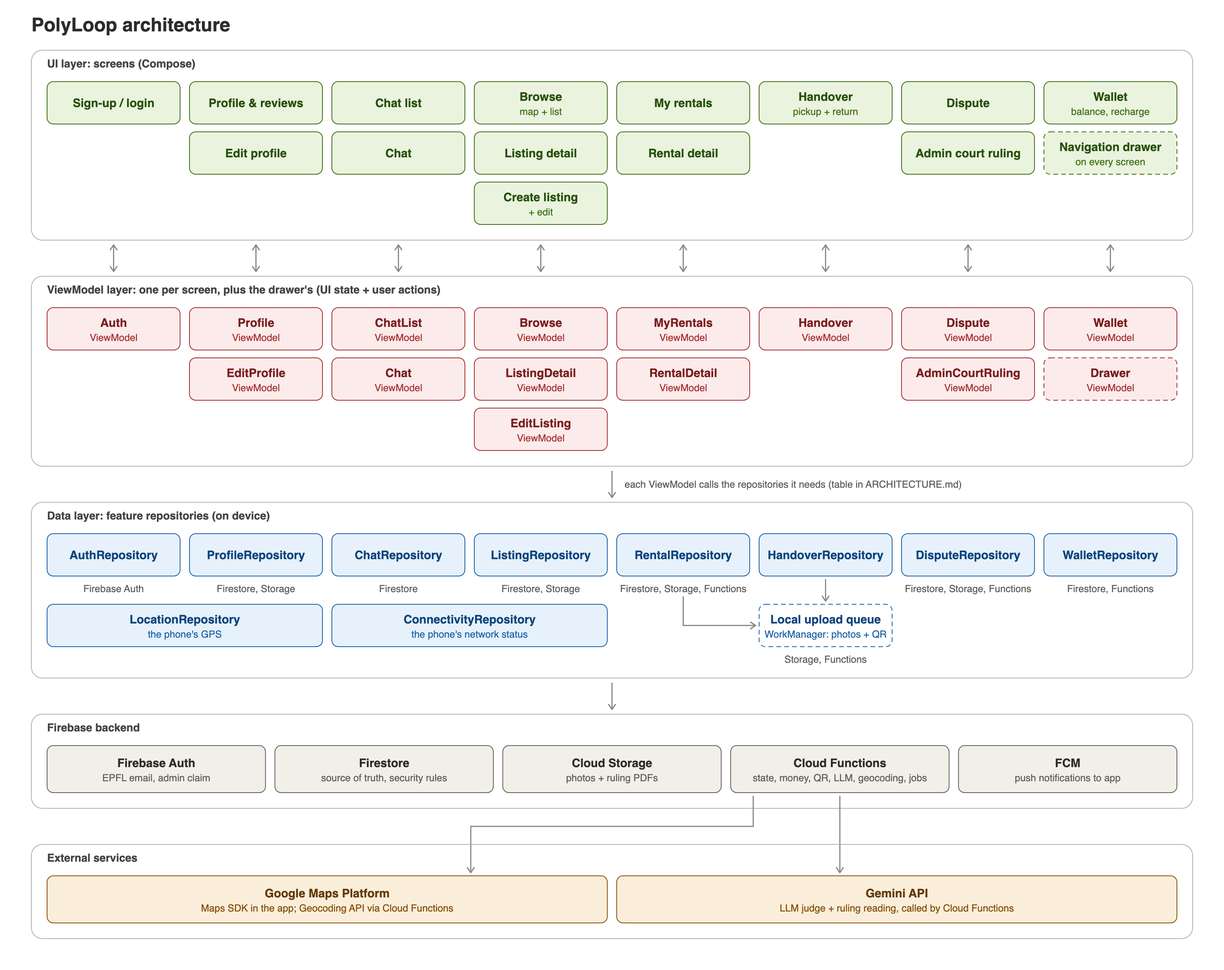
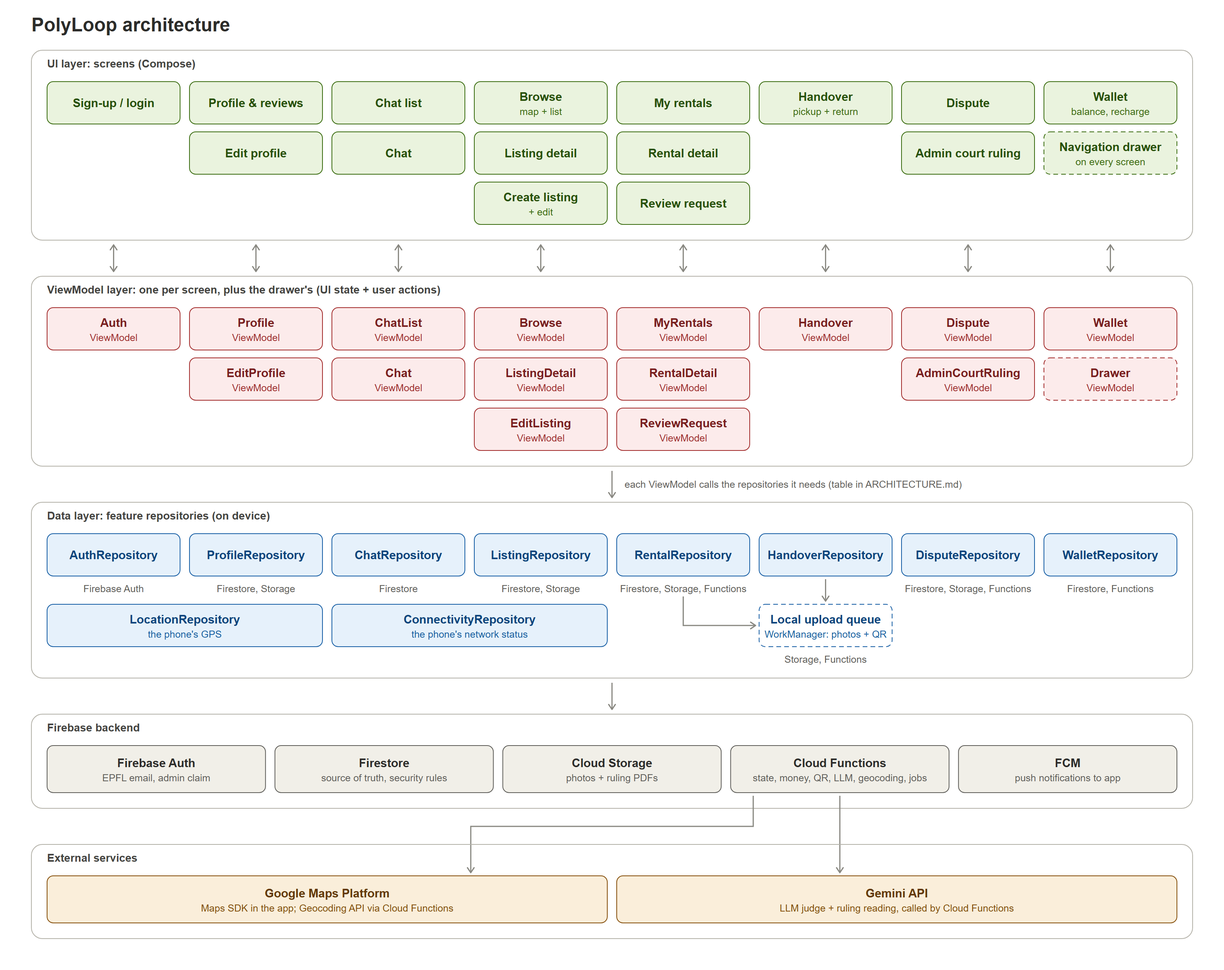
docs: describe the deposit negotiation flow
The lender now offers a deposit, the borrower accepts, declines or counters once, and an offer expires after a week. Adds the Review request screen and the offer fields to the docs and the diagram.

diff --git a/docs/ARCHITECTURE.md b/docs/ARCHITECTURE.md
@@ -4,9 +4,9 @@
 ## Layers
 
 ```
-UI layer        Compose screens (14 screens, see SCREENS.md)
+UI layer        Compose screens (15 screens, see SCREENS.md)
                   │  observe state / send user actions
-ViewModel layer 14 screen ViewModels (one per screen) + DrawerViewModel (navigation drawer)
+ViewModel layer 15 screen ViewModels (one per screen) + DrawerViewModel (navigation drawer)
                   │  call the repositories they need (no domain layer)
 Data layer      10 repositories + local upload queue (WorkManager)
                   │
@@ -45,11 +45,12 @@ Each screen has its own ViewModel, which holds that screen's state and calls the
 | Edit profile | EditProfileViewModel | Profile (loads the profile, uploads the new photo, saves the name and the photo's URL) |
 | Wallet | WalletViewModel | Wallet |
 | Chat list | ChatListViewModel | Chat (the item and the other person are copied on each rental, see "Firestore schema") |
-| Chat | ChatViewModel | Chat; Rental (link to Rental detail, sending disabled during a dispute); Profile (the other person); Listing (the item) |
+| Chat | ChatViewModel | Chat; Rental (link to Rental detail, sending disabled during a dispute, the offer card and its answers); Profile (the other person); Listing (the item) |
 | Browse | BrowseViewModel | Listing; Location (distance and map position) |
 | Listing detail | ListingDetailViewModel | Listing (the item and its booked days); Rental (sending the request); Profile (the owner's name and rating); Auth (the borrower sending the request) |
 | Create / edit listing | CreateListingViewModel | Listing; Rental (editing locked while a rental is accepted or active); Auth (the owner publishing the listing) |
 | My rentals | MyRentalsViewModel | Rental (the item, the other person and the areas are copied on each rental, see "Firestore schema") |
+| Review request | ReviewRequestViewModel | Rental (the request, sending the offer, declining); Listing (the item value, shown as the suggested deposit); Profile (the borrower's rating) |
 | Rental detail | RentalDetailViewModel | Rental (status, actions, deposit, meeting point, mid-rental photos); Listing (the item); Profile (the other person, the review prompt) |
 | Handover | HandoverViewModel | Handover; Rental (phase, role, deposit held); Dispute ("Flag damage") |
 | Dispute | DisputeViewModel | Dispute; Handover (pickup and return photos); Rental (the deposit); Listing (the item) |
@@ -65,6 +66,7 @@ DrawerViewModel is the one ViewModel not tied to a screen: the navigation drawer
 The app writes only content it owns (listings, profile fields, chat messages, photos). Anything that moves money or changes who holds an item is done by Cloud Functions, called from repositories:
 
 - rental status changes (request, accept, decline, cancel, pickup, return, close)
+- deposit offers and counteroffers
 - reserving and releasing the rental price and the deposit
 - wallet balance changes (recharge, payments, late fees, refunds)
 - dispute outcomes and applying court rulings
@@ -86,7 +88,13 @@ Requested → Accepted → Active → Returned → Closed, plus Declined, Cancel
 **Money (PolyPoints)**
 - In-app currency: PolyPoints (PP), 1 CHF = 1 PP. Recharge on the Wallet screen with a whole CHF amount from 1 to 99,999 (the same cap as a listing price); a recharge that would overflow the balance is refused. Payments are simulated. No withdrawals.
 - Sending a request reserves the rental price (price per day × days) from the borrower's balance; the request fails if the balance is too low. The wallet shows that price as `heldForRentals` and the deposits as `heldAsDeposits`; `reserved` is their sum, computed and never stored, and `available` + `reserved` is the user's total. A missing field reads as 0.
-- The deposit is negotiated in chat before acceptance. The lender enters the agreed deposit when accepting; it is reserved then, and acceptance fails if the balance is too low. The item value is shown as the suggested deposit.
+- The deposit is negotiated before acceptance, and only the deposit: the rental price is fixed. The item value is shown as the suggested deposit. An offer or a counteroffer is a whole amount from 1 to 99,999 PP (the same cap as a listing price).
+    1. On a request without an offer, the lender either sends an offer (the deposit and both exact addresses) or declines.
+    2. On the lender's offer, the borrower accepts, declines or sends one counteroffer.
+    3. On a counteroffer, the lender accepts or declines. There is no further round.
+- The rental stays `REQUESTED` during the negotiation. Accepting makes it `ACCEPTED`; the deposit is reserved then, and acceptance fails if the balance is too low. Declining an offer or a counteroffer makes it `DECLINED`.
+- An offer or a counteroffer expires after 1 week without an answer, or on the rental's first day if that comes sooner, and the rental becomes `DECLINED`. It cannot be accepted after that. A request without an offer does not expire.
+- Until the wallet has a Firestore implementation, no amount is actually reserved and the balance is not checked.
 
 **Listings and booking**
 - Price per day. The lender sets an availability window; the borrower picks dates inside it with a date picker.
@@ -123,7 +131,7 @@ Cloud Functions live in `functions/`, a separate TypeScript project (Node 22, `f
 
 | Area | Choice |
 | --- | --- |
-| Architecture | MVVM without a domain layer: 14 screen ViewModels, each calling the repositories it needs |
+| Architecture | MVVM without a domain layer: 15 screen ViewModels, each calling the repositories it needs |
 | UI state | Each ViewModel exposes its screen state as a `StateFlow`, collected with `collectAsStateWithLifecycle()`; user actions are method calls (unidirectional data flow) |
 | Navigation | Single activity, Navigation 2 (`navigation-compose`). Navigation 3 is Google's newer option, not adopted for now |
 | Dependency injection | Manual constructor injection: repositories and ViewModels receive their dependencies in the constructor (ViewModels through a `ViewModelProvider.Factory`), so tests can pass fakes. `RepositoryProvider` creates the shared repository instances |
@@ -135,7 +143,7 @@ Cloud Functions live in `functions/`, a separate TypeScript project (Node 22, `f
 | Geocoding | Cloud Function `geocodeListingAddresses`, when a listing's exact addresses are written (Geocoding API, key `GEOCODING_API_KEY`) |
 | "Near me" | Geohash queries with the GeoFire utilities |
 | LLM | Gemini API, called only from Cloud Functions (dispute proposals, court-ruling reading) |
-| Scheduled jobs | Every 5 minutes: deleting accounts not verified in time (`deleteExpiredSignUpsEvery5Minutes`). Hourly Cloud Function: 30-day escalation, deadline reminders, late fees, lost items, auto-cancelling rentals blocked by a late return |
+| Scheduled jobs | Every 5 minutes: deleting accounts not verified in time (`deleteExpiredSignUpsEvery5Minutes`). Hourly: expiring deposit offers (`expireOffers`). Hourly Cloud Function: 30-day escalation, deadline reminders, late fees, lost items, auto-cancelling rentals blocked by a late return |
 | Notifications | FCM |
 | Admins | Firebase custom claim |
 
@@ -148,7 +156,8 @@ Dates without a time are stored as `YYYY-MM-DD` strings, prices as whole PolyPoi
 | `users/{uid}` | `name`, `email`, `photoUrl`, `averageRating`, `reviewCount` | Missing fields read as `""` or 0. `photoUrl` is the download URL of the profile photo in Storage, or `""` without one. |
 | `listings/{listingId}` | `ownerId`, `title`, `description`, `category`, `photoUrls`, `pricePerDay`, `itemValue`, `availableFrom`, `availableTo`, `status`, `pickupArea`, `dropOffArea`, `pickupPoint`, `dropOffPoint`, `bookedRanges` | Public. `bookedRanges` is a list of `{start, end}` (`YYYY-MM-DD`, both days booked, the buffer days around it not included); missing reads as an empty list. It holds accepted rentals only: a pending request blocks no day. Each range copies the `startDate` and `endDate` of an accepted rental, which stay in `rentals/{rentalId}` to tell who has the item and when; the copy on the listing is public so that anyone can see which days are free without reading other people's rentals. Only Cloud Functions write it; the app never does, so it stays empty until the Function that accepts rentals exists. The areas and points: see below. |
 | `listings/{listingId}/private/addresses` | `pickup`, `dropOff` | Exact addresses, readable only by the owner. |
-| `rentals/{rentalId}` | `listingId`, `listingTitle`, `listingPhotoUrl`, `ownerId`, `ownerName`, `borrowerId`, `borrowerName`, `participants`, `startDate`, `endDate`, `status`, `pricePerDay`, `totalPrice`, `pickupArea`, `dropOffArea`, `pickupAddress`, `returnAddress`, `createdAt`, `lastMessage`, `lastMessageAt` | See below. |
+| `rentals/{rentalId}` | `listingId`, `listingTitle`, `listingPhotoUrl`, `ownerId`, `ownerName`, `borrowerId`, `borrowerName`, `participants`, `startDate`, `endDate`, `status`, `pricePerDay`, `totalPrice`, `pickupArea`, `dropOffArea`, `pickupAddress`, `returnAddress`, `deposit`, `offer`, `createdAt`, `lastMessage`, `lastMessageAt` | See below. |
+| `rentals/{rentalId}/private/addresses` | `pickup`, `dropOff` | The exact addresses of an offer, no client access. |
 | `rentals/{rentalId}/messages/{messageId}` | `senderId`, `text`, `sentAt`, `type` (`USER` or `SYSTEM`) | One conversation per rental. |
 
 Listings:
@@ -160,7 +169,10 @@ Rentals:
 - `participants` is `[ownerId, borrowerId]`; the chat list queries it with `array-contains` only and sorts by `lastMessageAt` in the app, so it needs no composite index.
 - My rentals queries `borrowerId` or `ownerId` only and sorts newest first in the app (a user has few rentals), so it needs no index.
 - `lastMessageAt` is set to the same server timestamp as `createdAt` when the rental is created: the chat list sorts by it, and leaves out a rental that lacks it.
-- `pickupAddress` and `returnAddress` stay empty until the lender accepts; the borrower cannot read the listing's exact addresses before that.
+- `pickupAddress` and `returnAddress` stay empty until the rental is accepted; the borrower cannot read the exact addresses before that. The lender's offer stores them in `private/addresses`, and acceptance copies them onto the rental.
+- `deposit` is the accepted amount in PolyPoints; missing reads as 0.
+- `offer` is the offer waiting for an answer: `amount`, `authorId`, `isCounter`, `createdAt`, `expiresAt`. It is missing when no offer is waiting, and removed when the negotiation ends. `expireOffers` queries `offer.expiresAt` alone, so it needs no composite index, and answering also refuses an expired offer, in case `expireOffers` has not run yet.
+- Each step of the negotiation adds a `SYSTEM` message to the chat, written by the Cloud Functions; the chat's offer card reads `offer`, so there is no new message type.
 - **Temporary exception to the core rule:** until the `requestRental` Cloud Function exists, the app creates the rental itself, with status `REQUESTED` only and no money reserved. The security rules allow only that creation, and afterwards only `lastMessage` and `lastMessageAt` can be changed by the participants. Until then, the dates are checked against `bookedRanges` only in the app (Listing detail reads them again from the server just before sending), so a client that skips this check is not stopped.
 
 Listing photos uploaded by the app go to Cloud Storage under `listings/{listingId}/`, as `0.jpg` to `9.jpg`, each tagged with the uid of the user who uploaded it (custom metadata `uploader`), so the Storage rules can check the owner and the uploader. Photos added before this rule live in `listing_images/` and keep working through their download URLs. A profile photo goes to `users/{uid}/profile.jpg`, one file per user that each new photo replaces; replacing it gives a new download URL, so the new photo is not hidden by an image cache.
@@ -170,6 +182,7 @@ Listing photos uploaded by the app go to Cloud Storage under `listings/{listingI
 `firestore.rules` and `storage.rules` are listed in `firebase.json`, so the emulators enforce them; `FirestoreRulesTest` and `StorageRulesTest` (in `androidTest/.../rules/`) check them. Every read and write needs a verified `@epfl.ch` account. Beyond the notes in the schema above:
 - A listing must pass the same checks as `Listing.canPublish` (3 to 10 photo URLs, all strings, prices from 1 to 99,999 PP, `availableFrom` before `availableTo`, a known category and status). Clients never write `bookedRanges` (a Cloud Function will, on acceptance) and never change `ownerId`. They create `pickupArea` and `dropOffArea` empty, never write `pickupPoint` or `dropOffPoint`, and never change any of the four afterwards (`geocodeListingAddresses` does). A listing cannot be created at an id whose `private/addresses` is left over from a deleted listing.
 - A rental request must match its listing, which must be `PUBLISHED`: same owner, title, first photo (`""` if the listing has none), price per day and areas, dates inside the availability window, and `totalPrice` equal to the price per day × the number of days.
+- Clients never write a rental's `deposit`, `offer`, `pickupAddress` or `returnAddress`, and have no access to `rentals/{rentalId}/private/addresses`.
 - Profiles: a user creates and edits only their own, with their own email; `averageRating` and `reviewCount` are left to Cloud Functions.
 - Storage: listing photos must be images under 10 MB (the in-app camera takes about 1440 × 1080 JPEGs at quality 80), named `0.jpg` to `9.jpg` and tagged with the uid of the user writing them. They are uploaded before the listing document exists, so a folder whose listing does not exist yet is open to any verified user; once it exists, only the owner may change it. A photo can be replaced or deleted only by the user who uploaded it, even once its listing is deleted; photos uploaded before the tag existed have none, so only an admin can change or delete them. These rules read Firestore, so the first deploy asks to let Storage read Firestore.
 - Storage: a profile photo can be read by any verified user and changed or deleted only by its user; it must be an image under 5 MB, and no other file is allowed under `users/`. The in-app camera takes photos at 1440 × 1080 with JPEG quality 80, a few hundred KB, well under this limit.
@@ -178,6 +191,6 @@ Listing photos uploaded by the app go to Cloud Storage under `listings/{listingI
 ## Not decided yet — ask before implementing
 
 - Security rules for collections not listed in the schema above
-- Cloud Function names and signatures, apart from `geocodeListingAddresses` (see "Firestore schema")
+- Cloud Function names and signatures, apart from `geocodeListingAddresses` (see "Firestore schema") and the negotiation's: `makeOffer({rentalId, deposit, pickupAddress, returnAddress})`, `respondToOffer({rentalId, action, deposit})` (`action` is `ACCEPT`, `DECLINE` or `COUNTER`; `deposit` only for `COUNTER`), `declineRequest({rentalId})`, and the scheduled `expireOffers`
 - Whether the auto-cancel waits until a set time on the pickup day (e.g. noon) so offline return scans can sync first
 - The exact list of push notifications

diff --git a/docs/SCREENS.md b/docs/SCREENS.md
@@ -5,7 +5,7 @@ One section per screen: what it shows and what it lets the user do. Mock-ups: ht
 
 ## Conventions
 
-PolyLoop has 14 screens, each backed by its own ViewModel, which uses the repositories it needs (see the table in ARCHITECTURE.md). Each section below lists what a screen shows and what it lets the user do.
+PolyLoop has 15 screens, each backed by its own ViewModel, which uses the repositories it needs (see the table in ARCHITECTURE.md). Each section below lists what a screen shows and what it lets the user do.
 
 Elements shared across screens:
 
@@ -55,7 +55,7 @@ Edit profile is where the signed-in user changes their name and photo. It opens 
 
 The Wallet screen holds the user's in-app balance, which pays for rentals and deposits. ViewModel: WalletViewModel, using WalletRepository. The balance is only ever changed by Cloud Functions; the app sends a request and shows the result.
 
-- The available balance in PolyPoints (everything held excluded), then “Held as deposits”, the deposits held, and, only when it is above 0, “Held for rentals”, the rental prices reserved since a request was sent (the deposit only exists once the lender accepts). Available plus both held amounts is the user's total.
+- The available balance in PolyPoints (everything held excluded), then “Held as deposits”, the deposits held, and, only when it is above 0, “Held for rentals”, the rental prices reserved since a request was sent (the deposit only exists once an offer is accepted). Available plus both held amounts is the user's total.
 - A “Recharge” button: the user enters a whole Swiss franc amount from 1 to 99,999 and receives the same number of PolyPoints. Recharging is simulated; no real payment is made.
 - A transaction history, newest first: recharges, rental payments, late fees, and deposits held, released, split or forfeited (the rest of the deposit, paid to the lender once the item is lost). The amounts add up to the available balance; late fees and forfeited deposits show only in the lender's history, and a borrower's late fees appear as a smaller deposit release.
 - PolyPoints cannot be withdrawn back to Swiss francs.
@@ -67,12 +67,13 @@ Each rental has exactly one 1:1 conversation between its lender and borrower. Vi
 
 - **Chat list.** A separate screen lists all the user's conversations, one per rental, with the other person, the item and the last message.
 - The chat opens as soon as a request is sent, so both sides can agree on details before acceptance, such as the meeting point and the deposit.
+- **Offer card** (Figma frames 19.10 to 19.15). While an offer waits for an answer, the chat shows its amount and when it expires. The lender's offer gives the borrower “Decline”, “Counter” and “Accept”; “Counter” asks for an amount, with “Back” and “Send”. A counteroffer gives the lender “Decline” and “Accept” only. The author of the offer sees it as waiting, with no action. Each step adds a centred system message, including an accepted, declined or expired offer. The actions are disabled offline.
 - Header with the other person's name, the item, and a link back to Rental detail.
 - Messages with timestamps, newest at the bottom, and a text field with a send button.
 - A push notification for each new message.
 - Offline: the chat list and the most recent messages stay readable from cache; the send button is disabled.
 - No chat during a dispute: sending is disabled while a dispute is open.
-- Messages are text only.
+- Messages typed by users are text only.
 
 ## Browse
 
@@ -92,7 +93,7 @@ Browse shows available items near the user, as a map or a list. ViewModel: Brows
 
 Listing detail is where a borrower decides and sends a request. ViewModel: ListingDetailViewModel, using ListingRepository, RentalRepository (to send the request) and ProfileRepository.
 
-- Photo carousel, title, description, price per day, and the suggested deposit (the item's value), all in PolyPoints. The final deposit is negotiated in chat; the lender enters it when accepting.
+- Photo carousel, title, description, price per day, and the suggested deposit (the item's value), all in PolyPoints. The final deposit is negotiated after the request: the lender offers an amount, and the borrower answers in the chat.
 - The owner's name and rating, linking to their profile.
 - A small map of the pickup area, placed by geocoding the typed address. The exact address only appears on Rental detail after acceptance.
 - The lender's availability window, and a “Request” button that opens a date picker limited to that window. Booked days (accepted rentals only; a pending request blocks no day), plus a 1-day buffer before and after each booking, are greyed out. The total is the price per day times the number of days. Disabled offline.
@@ -119,10 +120,21 @@ My rentals is the user's overview of everything they borrow and lend, and it wor
 
 - Two tabs: “Borrowing” and “Lending”, each with the same two sections, “REQUESTS” and “CURRENT”. A section shows only when it has rows.
 - “REQUESTS” holds pending requests only, newest first. “CURRENT” holds every other rental, what needs attention first (overdue, then disputed, frozen and lost, then active, accepted, finished, and declined or cancelled last), newest first within each status.
-- Each card shows the listing photo, the item, the other person (“from [Lender name]” on Borrowing), a status label, and one “what comes next” line: the dates while requested, “Pickup 15 Oct · area” once accepted, “Return by 8 Oct · area” while active or overdue, the area while disputed, frozen or lost, and “Closed 2 Oct” once closed. Returned, declined and cancelled rentals have no line. The area is the public one; the closed date is the rental's last day for now.
-- On “Lending”, a request shows the borrower, the dates and the reserved price, and only its “Review request” button reacts. On “Borrowing”, tapping a request opens Rental detail. Tapping a row in “CURRENT” opens Rental detail.
+- Each card shows the listing photo, the item, the other person (“from [Lender name]” on Borrowing), a status label, and one “what comes next” line: the dates while requested (with the status “Offer sent” or “Offer received” while an offer waits for an answer, Figma frames 10.10 and 11.10), “Pickup 15 Oct · area” once accepted, “Return by 8 Oct · area” while active or overdue, the area while disputed, frozen or lost, and “Closed 2 Oct” once closed. Returned, declined and cancelled rentals have no line. The area is the public one; the closed date is the rental's last day for now.
+- On “Lending”, a request shows the borrower, the dates and the reserved price, and only its “Review request” button reacts, which opens Review request. Once an offer exists, the row opens the chat instead. On “Borrowing”, tapping a request opens Rental detail. Tapping a row in “CURRENT” opens Rental detail.
 - Offline: the whole list, deadlines and meeting points stay available from cache.
 - The items the user has put up for rent are listed in Profile, not here.
+
+## Review request
+
+Review request is where the lender answers a request that has no offer yet (Figma frame 12.10). It opens from “Review request” on My rentals. ViewModel: ReviewRequestViewModel, using RentalRepository, ListingRepository and ProfileRepository.
+
+- The item, the dates and number of days, the rental price, and the borrower with their rating.
+- A deposit field, filled in with the suggested deposit (the item's value): a whole amount from 1 to 99,999 PolyPoints.
+- The pickup and drop-off addresses, typed as text. The borrower sees them only once the rental is accepted.
+- “Send offer”, disabled until the deposit is valid and both addresses are filled in. It sends the offer and opens the chat, where the borrower answers.
+- “Decline”, which declines the request without an offer.
+- While an action runs, both buttons are disabled; if it fails, the error is shown and the form keeps its content. Both are disabled offline.
 
 ## Rental detail
 
@@ -131,12 +143,13 @@ Rental detail is the hub for one rental: what it is, where it stands, and the ne
 So far only the Requested state is built (other statuses show the item's title and a short “not available yet” text), and its map is a grey placeholder until the map is added.
 
 - Item, dates, return deadline, the other person (linking to their profile), and a status label.
-- The deposit, entered by the lender when accepting, and its state: held, released, or frozen.
-- The meeting point: the lender sets the pickup and drop-off addresses, after agreeing with the borrower in chat if needed. Shown on a map with a “Navigate” button; offline, as text.
+- The deposit, once an offer is accepted, and its state: held, released, or frozen. “Held” appears only once deposits are really reserved, which needs the wallet's Firestore implementation; until then only the amount shows.
+- While an offer waits for an answer, its amount and when it expires (Figma frame 13.10).
+- The meeting point: the lender sets the pickup and drop-off addresses when sending the offer, after agreeing with the borrower in chat if needed. The exact addresses show only once the rental is accepted, on a map with a “Navigate” button; offline, as text.
 - A “Chat” button.
 - A “Take photo” button while the rental is active, for condition photos between pickup and return.
 - The main action, which changes with status and role:
-    - Requested, lender: “Accept” (entering the deposit, which is then reserved from the borrower's balance; acceptance fails if it is too low) or “Decline”. Accepting automatically declines other requests whose dates overlap, counting the 1-day buffer between rentals.
+    - Requested: the “Chat” button leads to the chat, where the offer is answered (see Chat list & chat). Accepting reserves the deposit from the borrower's balance, and fails if it is too low. Accepting automatically declines other requests whose dates overlap, counting the 1-day buffer between rentals, with or without an offer.
     - Accepted: “Start pickup”, which opens Handover.
     - Active: “Start return”, which opens Handover.
     - Disputed: “View dispute”, which opens Dispute.

diff --git a/AGENTS.md b/AGENTS.md
@@ -9,7 +9,7 @@ Durable rules for any AI agent (and human) working in this repository. Read this
 
 - Android, Kotlin, Jetpack Compose, Material 3. minSdk 28.
 - Backend is Firebase: Auth (email/password, verified `@epfl.ch` only), Firestore, Cloud Storage (photos, court-ruling PDFs), Cloud Functions (trusted logic; Gemini for dispute proposals and reading court rulings), Cloud Messaging.
-- Rental flow: request (rental price reserved) -> lender accepts and enters the deposit agreed in chat (deposit reserved) -> pickup: condition photos + QR scan -> return: condition photos + QR scan -> lender confirms or flags damage -> direct settlement (auto-escalates after 30 days) -> Gemini proposes a split -> court ruling uploaded as PDF, reviewed by an admin. Late items are lost after a 3-day grace period.
+- Rental flow: request (rental price reserved) -> lender offers a deposit and gives the addresses -> borrower accepts, declines or counters once -> lender answers a counteroffer -> accepted (deposit reserved) -> pickup: condition photos + QR scan -> return: condition photos + QR scan -> lender confirms or flags damage -> direct settlement (auto-escalates after 30 days) -> Gemini proposes a split -> court ruling uploaded as PDF, reviewed by an admin. Late items are lost after a 3-day grace period.
 
 Before writing any code, read `docs/ARCHITECTURE.md` and `docs/SCREENS.md`. They are the source of truth for the architecture, the product rules and every screen.
 
@@ -19,7 +19,7 @@ Diagram: `docs/architecture/polyloop_architecture.png` (the SVG next to it is th
 
 1. **Do not make design or technical decisions on your own.** If something you need is not in `docs/`, or the docs are ambiguous, stop and ask. The "Not decided yet" list in ARCHITECTURE.md names known gaps.
 2. **Respect the layers.** Each screen (Compose) only talks to its own ViewModel. ViewModels call the repositories they need directly; they never call each other, and there is no domain/use-case layer.
-3. **One ViewModel per screen, one repository per feature.** There are 14 screens, each with its own ViewModel (plus DrawerViewModel for the navigation drawer shared by every screen), and 10 repositories, one per type of data (Auth, Profile, Listing, Rental, Chat, Handover, Dispute, Wallet, Location, Connectivity). `docs/ARCHITECTURE.md` lists the repositories each ViewModel uses; keep that list up to date. Do not create new ViewModels or repositories without asking.
+3. **One ViewModel per screen, one repository per feature.** There are 15 screens, each with its own ViewModel (plus DrawerViewModel for the navigation drawer shared by every screen), and 10 repositories, one per type of data (Auth, Profile, Listing, Rental, Chat, Handover, Dispute, Wallet, Location, Connectivity). `docs/ARCHITECTURE.md` lists the repositories each ViewModel uses; keep that list up to date. Do not create new ViewModels or repositories without asking.
 4. **If the architecture changes**, update `docs/ARCHITECTURE.md`, `docs/SCREENS.md`, the diagram and, if a rule changes, this file in the same pull request as the code.
 
 ## Rules that must never be broken
